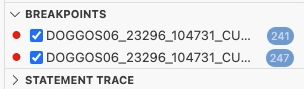
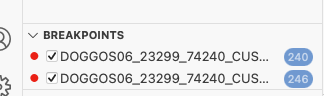
line number corrections

Changed region(s): [[0.0, 0.0, 1.0, 1.0]]

diff --git a/README_ENDEVOR.md b/README_ENDEVOR.md
@@ -50,18 +50,18 @@
 
 ## Edit the DOGGOS application
 
-1. Copy block of code (lines 60-62)
-2. Paste it after line 62 (You can use CTRL+G to jump into the given line number)
+1. Copy block of code (lines 59-61)
+2. Paste it after line 61 (You can use CTRL+G to jump into the given line number)
 3. Change JINGO to another dog breed name (e. g. **HUSKY**) in the whole pasted block of code
-4. For HUSKY-INDEX-VALUE change VALUE to 9  (line 64)
-5. For OTHER-INDEX-VALUE change VALUE to 10 (line 67)
-6. Change PIC 9(1) to PIC 9(2) for OTHER-INDEX-VALUE (line 67)
-7. Change OCCURS value to 10 (line 72)
-8. Copy block of code (lines 209-211)
-9. Paste it after line 211
+4. For HUSKY-INDEX-VALUE change VALUE to 9  (line 63)
+5. For OTHER-INDEX-VALUE change VALUE to 10 (line 66)
+6. Change PIC 9(1) to PIC 9(2) for OTHER-INDEX-VALUE (line 66)
+7. Change OCCURS value to 10 (line 71)
+8. Copy block of code (lines 208-210)
+9. Paste it after line 210
 10. Change JINGO to the dog breed name you picked in step 3 (**HUSKY**) within the pasted block of code
-11. Copy block of code (lines 140-143)
-12. Paste it after line 143
+11. Copy block of code (lines 139-142)
+12. Paste it after line 142
 13. Change JINGO to the dog breed name you picked in step 3 (**HUSKY**) within the pasted block of code
 14. Use CTRL+S (or COMMAND+S) to save the changes and bring the file to your sandbox
 15. A prompt will ask for the Endevor path to upload the cobol element. Hit enter to approve the pre-filled value
@@ -136,10 +136,10 @@ The new dog breed “HUSKY” is listed and the counter reports 99 adopted HUSKY
 8. Now where to put a breakpoint?
 9. The report for JINGO breed was wrong, so let’s put a breakpoint where the value is updated. Let’s find the first place in the code by searching for JINGO with Ctrl+F (CMD+F on Mac).
 10. We can see that processing for JINGO breed is handled by these variables.
-11. Let’s find all instances where JINGO-BREED-NAME by right-clicking on it, selecting Peek> Peek references. Go through the referenced to find where the amount is updated. It will be here around line 241 in extended source.
+11. Let’s find all instances where JINGO-BREED-NAME by right-clicking on it, selecting Peek> Peek references. Go through the referenced to find where the amount is updated. It will be here around line 240 in extended source.
 12. Close the peek references pop-up.
 14. The value for OTHER breeds was wrong in the repo. Let’s put there a breakpoint as well
-That would be on line 247
+That would be on line 246
 15. We now have 2 breakpoints (you can see them in breakpoints section in the bottom left corner):
 
 ![Paste](images/endevor/end22.png)
@@ -148,17 +148,16 @@ That would be on line 247
 
 ![Paste](images/endevor/end21.png)
 
-
-17. We can see that while looping through the breeds the debugger has skipped the breakpoint on line 241 and stopped at line 247
+17. We can see that while looping through the breeds the debugger has skipped the breakpoint on line 240 and stopped at line 246
 
 ![Paste](images/endevor/end23.png)
 
 
-18. Let’s check the variables. Click on the INP-DOG-BREED, right click and “Add to watch” (line 218)
+18. Let’s check the variables. Click on the INP-DOG-BREED, right click and “Add to watch” (line 217)
 
 ![Paste](images/endevor/end24.png)
 
-19. Do the same for the INP-ADOPTED-AMOUNT variable on line 220 to understand which breed we are analyzing
+19. Do the same for the INP-ADOPTED-AMOUNT variable on line 219 to understand which breed we are analyzing
 
 20. You can see in your watch section the value of the variables (BTW, a quick way is just to hover over a variable name in your extended source and the value will pop up)
 
